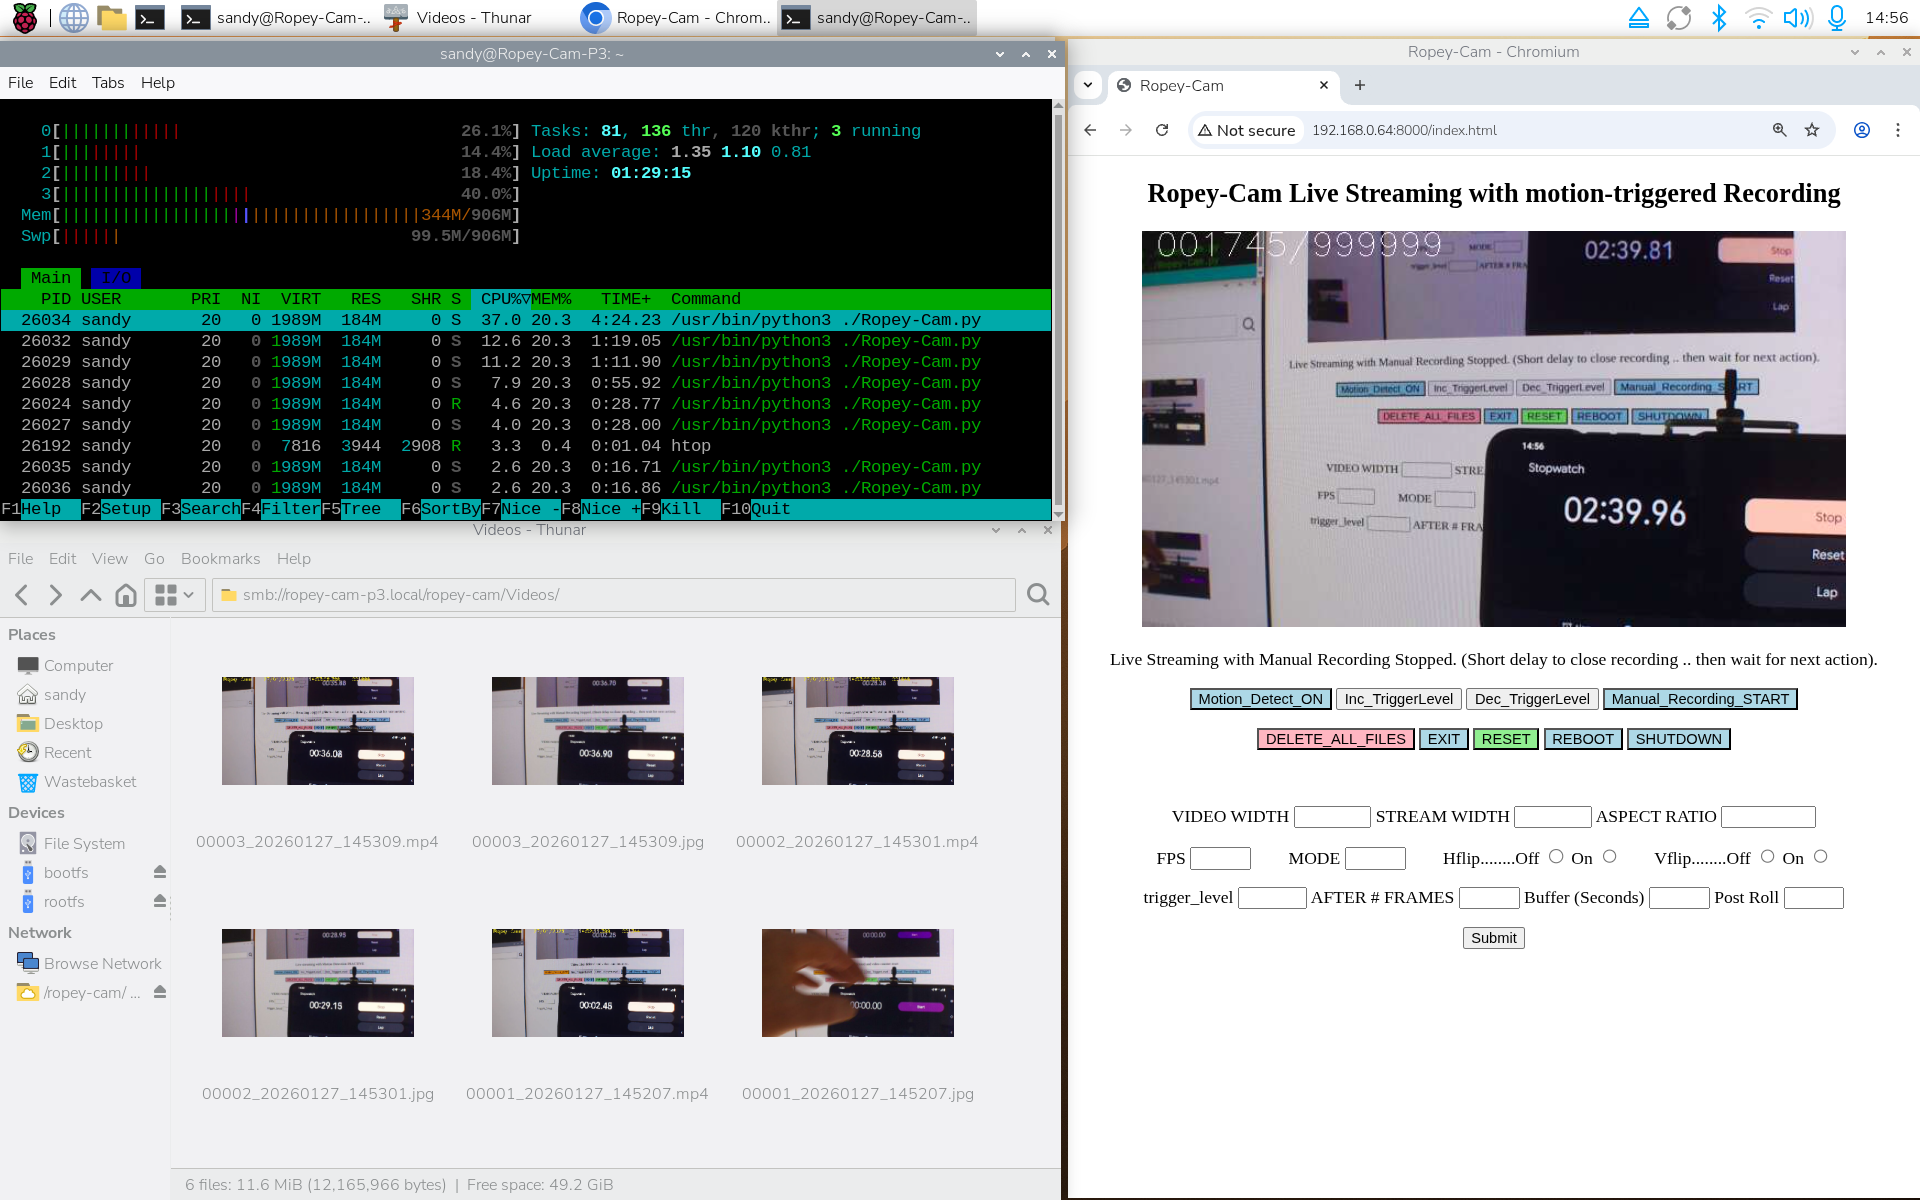
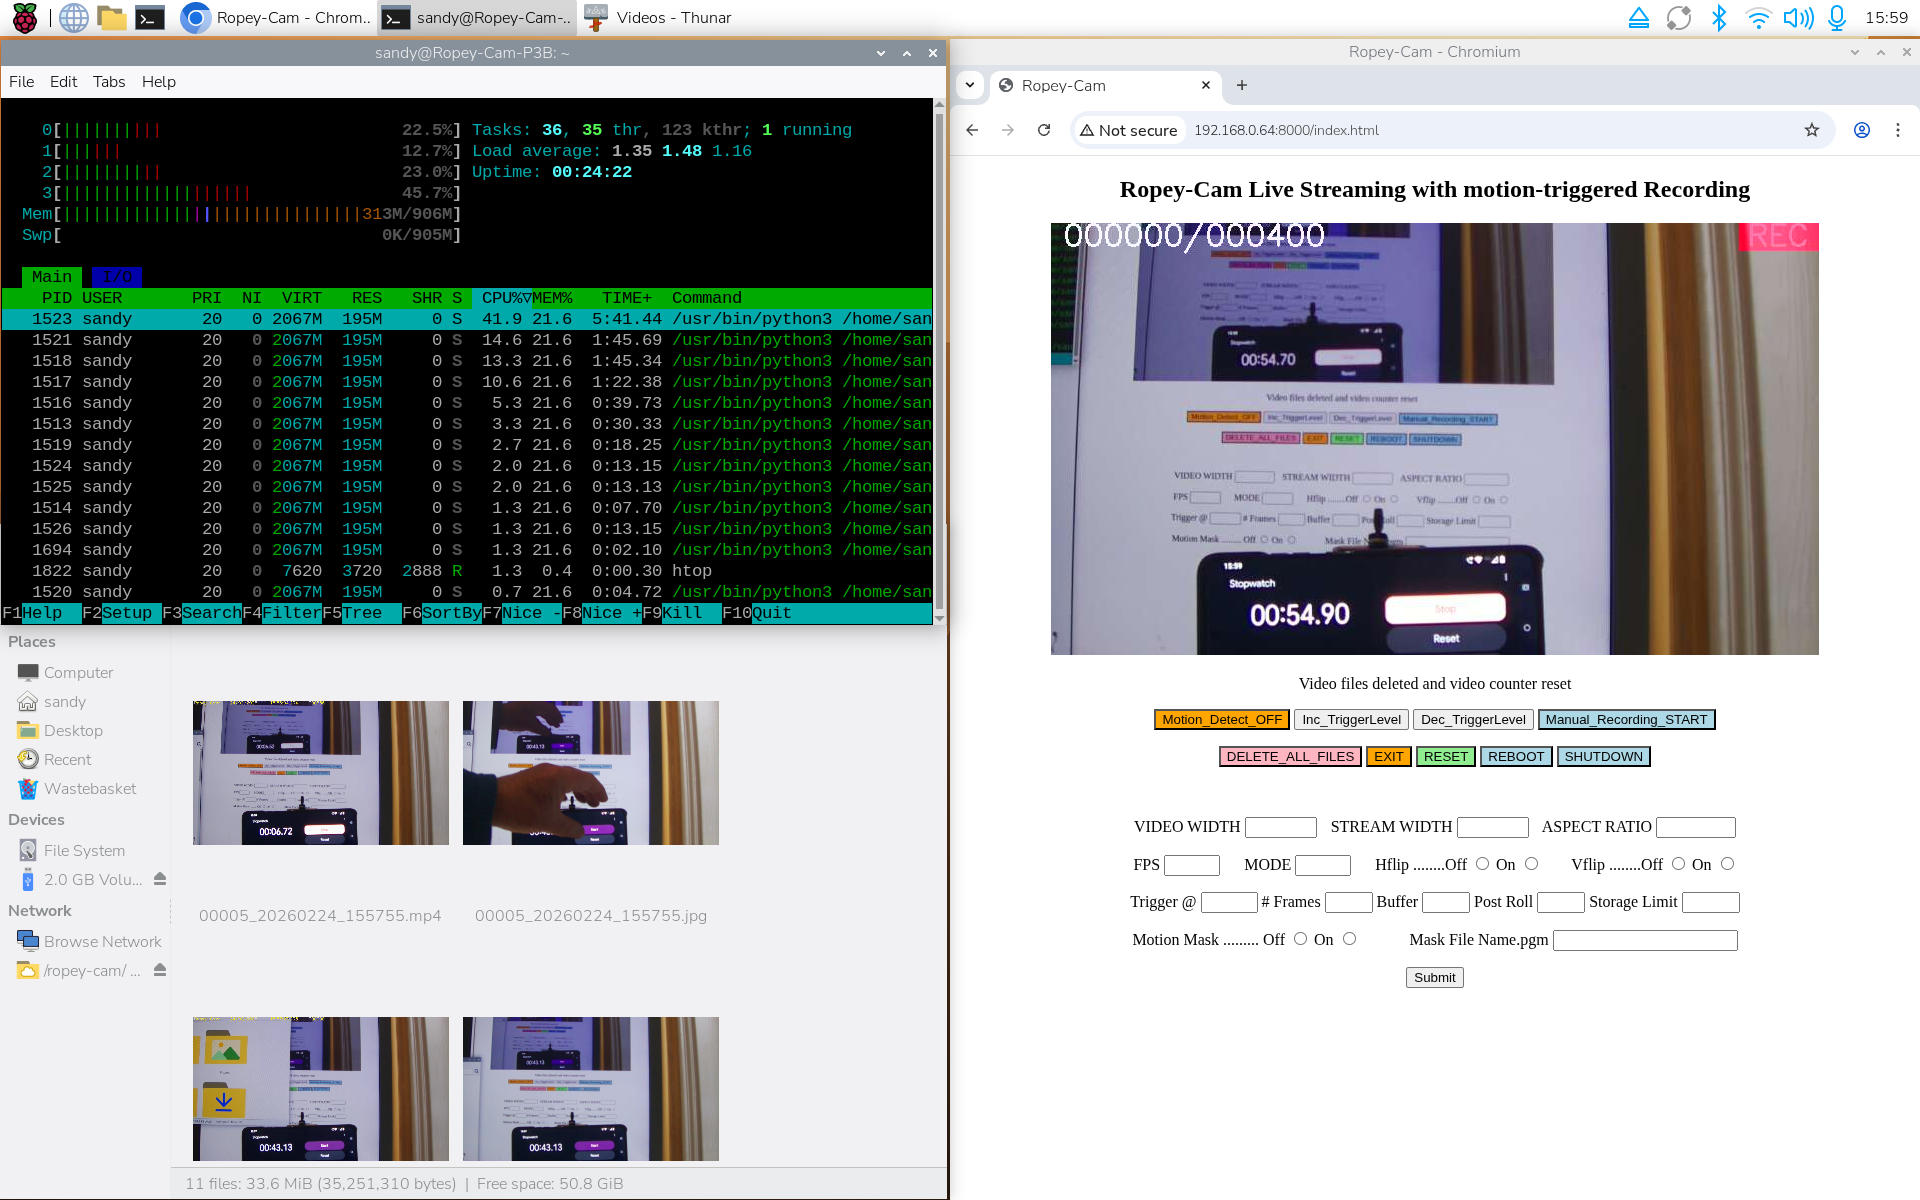
Update README and docs to describe the motion mask feature

diff --git a/docs/general_notes.md b/docs/general_notes.md
@@ -7,8 +7,8 @@ As R-C is based on Picamera2/libcamera it should be compatible with all Raspberr
 
 
 
-#### Video sizes and FrameRates
-The default configuration is 1280x720 @ 20fps for the recorded video, and 640x360 (at the same framerate) for the stream to the browser and is conservative and 'should just work' on any supported combination of Pi + Camera module.
+#### Video Resolutions and FrameRates
+The default configuration is 1280x720 @ 20fps for the recorded video, and 640x360 (at the same framerate) for the stream to the browser. Both are conservative and 'should just work' on any supported combination of Pi + Camera module.
 
 Full HD 1920x1080 at 30 fps for the recorded video is best with Pi 4 and above, although Full HD @ 20fps has been tested successfully on a Pi3A+.
  
@@ -29,7 +29,7 @@ The VIDEO WIDTH field will accept values from 1024 to 1920 in steps of 32 pixels
 #### STREAM WIDTH 
 The STREAM WIDTH will accept values from 512 to 1280 in steps of 128 pixels to match all Pi model hardware alignments. (Earlier models supported steps of 64 pixels, but 128 is required for Pi 5).
 #### ASPECT RATIO
-The ASPECT RATIO can be either 1.333 , 1.777 or 2.221  (4:3 , 16:9  or 20:9), and is used to calculate the relevant HEIGHT for each stream.  (No sensor modes support native 20:9 but the system will readily crop a 16:9 mode and give a wide format 20:9 video output or stream).  
+The ASPECT RATIO can be either 1.333 , 1.777 or 2.221  (4:3 , 16:9  or 20:9), and is used to calculate the relevant HEIGHT for each stream.  (No sensor modes support native 20:9 but the system will readily crop a 16:9 mode and give a wide format 20:9 video recording and output stream).  
 #### FPS
 The framerate FPS can be set between 10 and 30 fps in steps of 5.
 #### MODE
@@ -48,9 +48,9 @@ Mode 2 will give a full-frame 2x2 binned 4:3 mode on an HQ module.
 
 Other higher modes may be useful in limited circumstances.
 #### Hflip Vflip
-The Hflip and Vflip switches can be used to vertically or horizontally mirror the video frame or invert it if used together. Applies to both recorded and streaming frames. 
+The Hflip and Vflip switches can be used to vertically or horizontally mirror the video frame or invert it if used together. These apply to both recorded and streaming frames. 
 ### Trigger @
-After testing the application in the intended environment and finding the optimum trigger_level with the Inc/Dec controls it may be easier to input the trigger-level for motion detection value directly, particularly if large changes are needed.
+After testing the application in the intended environment and finding the optimum trigger_level with the Inc/Dec controls it may be convenient to input the trigger-level for motion detection value directly, particularly if large changes are needed.
 
 ### # Frames
 To help ensure the triggering is caused by 'true motion' the current default setting of AFTER # FRAMES is to wait for 5 consecutive frames with a 'Frame Difference' above the trigger_level, before activating recording.
@@ -67,10 +67,66 @@ The post-roll is also set to a default 3 seconds and can be altered to capture m
 To help avoid the disk/card running out of storage space the disk_usage is checked after each video file is stored and if the ratio of used/total space exceeds this limit the oldest files will be deleted.
 
 The default is 80% (0.8) A value closer to 1.0 may be useful with lower capacity storage cards. Lower values may be appropriate for large capacity cards. 
+
+### Motion Mask
+
+To avoid triggering by the motion of irrelevant background portions of the scene, e.g branches blowing in the wind, a blanking motion mask can be applied or disabled with these boolean Off/On radio buttons. A description of the function of this mask and guidelines on how to generate one are in the [Motion Mask Generation](#generation) section below.
+
+### Mask_File_Name.pgm  
+Enter the file name of the motion mask to be applied in this field. This should be the full file name with its associated .pgm file type, and it should be stored in the main Ropey-Cam directory. A blank `default_mask.pgm` file is supplied that matches the standard default stream size. If you choose to use a different stream size it is essential to generate a new mask that matches the stream array size.
+
     
 ## Configuration storage
 Configuration changes are stored internally after being submitted or entered, but are not applied 'on-the-fly'. The changes are written to the configuration ropey.ini file on EXIT/SHUTDOWN or REBOOT, and will take effect when the file is read on the next startup.
 
+<a id="generation"></a>
+## Motion Mask Generation
+
+The motion mask is a simple binary black/white .pgm image that, when converted to a numpy array, will be bitwise 'anded' with the frames used in the motion detection thread. The black (0) areas of the mask will effectively blank the equivalent areas of the motion detection frames, while the white (255) areas will leave the equivalent areas unmodified. The mask must match the width and height of the stream / motion detection frames.
+
+There are many ways the masks could be generated but a suggested method is outlined below.
+
+### Use .jpg snapshots as baseline
+
+>Once the Stream size has been set to your chosen size, trigger some motion that will create a .jpg snapshot.
+
+>Load a representative .jpg snapshot from the Videos directory into a paint package that supports .pgm files. GIMP is a good choice and will be the basis of the following description.
+
+>From the Layer Menu 'Create a New Layer'.
+
+>In the dialogue box set the 'Opacity' of the new layer to a value in the range 25-30, and set the 'Fill with' to be White.
+
+>This should give a lightened 'washed-out' appearance to the original jpg image below the new layer.
+
+>Select the Paintbrush tool and a fairly large hard edged brush outline (Circle or Rectangle preferably)
+
+>Ensure the foreground colour is set to Black and the Background to White.
+
+>Brush over the area where the unwanted motion appears, and it should become fully visible through the black areas of the layer.
+
+> If you have made the black area too big, try reducing the brush size and switching the foreground colour to white and fill back in toward the unwanted area. Leave a small border around the unwanted zone to allow for the motion. 
+
+>Highlight the original jpg layer in the layers toolbox, then right click and Delete Layer.
+
+>Still in the Layers toolbox, the New Layer should now be the active one. Adjust the opacity back to 100.
+
+>The image should now be a binary black/white with the black area representing the area to be ignored during motion detection.
+
+>Go to the File Menu and select Export As... and enter a File Name with a.pgm suffix, and a destination folder. (In the Ropey-Cam directory on the Pi if connected via the samba network.)
+
+>Press Export, and in the pop-up select raw and Export
+
+### To activate the mask
+Select the ON Radio Button in the Motion Mask field and Enter the full Mask Name (with.pgm) extension in the text field and Press Submit.
+
+EXIT or REBOOT and the Mask will be applied on restart.
+
+### To comfirm activation
+A check of the ropey.ini file should confirm the presence of the apply_motion_mask as True and the File Name should be present.
+
+Create some motion in the scene area corresponding to the black area(s) of the mask and check that the motion score in the top left of the streamed image does not respond and no recording is initiated.
+
+ 
 
 ## Timestamps
-The recorded video files have a date and time stamp embedded in the frame data. The time includes a millisecond record and is useful for checking for dropped frames.  By single-stepping through the recorded files the millisecond counter should advance by ~ 1000 / FRAMES_PER_SECOND each frame. A jump between frames of more than this would indicated dropped frames in the encoded video file.  Playing back the files using mpv media player, rather than the default vlc, can be useful with it's more flexible forward/backward single stepping and easier access to the video properties information.  
+The recorded video files have a date and time stamp embedded in the frame data. The time includes a millisecond record and is useful for checking for dropped frames.  By single-stepping through the recorded files the millisecond counter should advance by ~ 1000 / FRAMES_PER_SECOND each frame. A jump between frames of more than this would indicated dropped frames in the encoded video file.  Playing back the files using mpv media player, rather than the default vlc, can be useful with it's more flexible forward/backward single stepping and easier access to the video properties information. 

diff --git a/README.md b/README.md
@@ -68,7 +68,7 @@ The button text describes the action that will be taken when the button is press
 > will be replaced by Motion_Detect_On after being pressed.
 
 **Inc_ and Dec_TriggerLevel**
->as described above, modify the sensitivity to motion.
+>as described above, modify the sensitivity to frame to frame changes.
 
 **Manual_Recording_Start**
 > will initiate a recording irrespective of motion triggering.
@@ -140,7 +140,7 @@ In the lower left the Thunar file manager is accessing the Videos subdirectory o
 
 And on the right is the browser, showing an image from the camera while it is being pointed at the browsing computer's screen - with a stopwatch in the foreground.
 
-The difference between the stopwatch time in the foreground, and the background - earlier - image of the stopwatch that has been captured, processed, passed through the network to the browser and displayed, is a measure of the system latency.  The latency of 150ms is in the low range of the values seen in this particular configuration, which were typically in the 150 to 200 ms range. 
+The difference between the stopwatch time in the foreground, and the background - earlier - image of the stopwatch that has been captured, processed, passed through the network to the browser and displayed, is a measure of the system latency.  The latency of 200ms is in the top end of the range of the values seen in this particular configuration, which were typically in the 150 to 200 ms range. 
 
 ### Acknowledgements 
 

diff --git a/docs/samba.md b/docs/samba.md
@@ -1,6 +1,6 @@
 ## Suggestions for setting up a samba share.
 
-These instructions *should* result in a functioning share, but it may be useful to check some online tutorials and find / use an independent set of commands that suit *your* intended use.  e.g. the Global WORKGROUP lines of the configuration file may be unnecessary or incorrect, as may some of the Ropey-Cam share configuration definitions!
+These instructions *should* result in a functioning share, but it may be useful to check some online tutorials and find / use an independent set of commands that suit *your* intended use!
 
 Firstly install the samba packages on the 'Ropey-Cam' Raspberry Pi.
 
